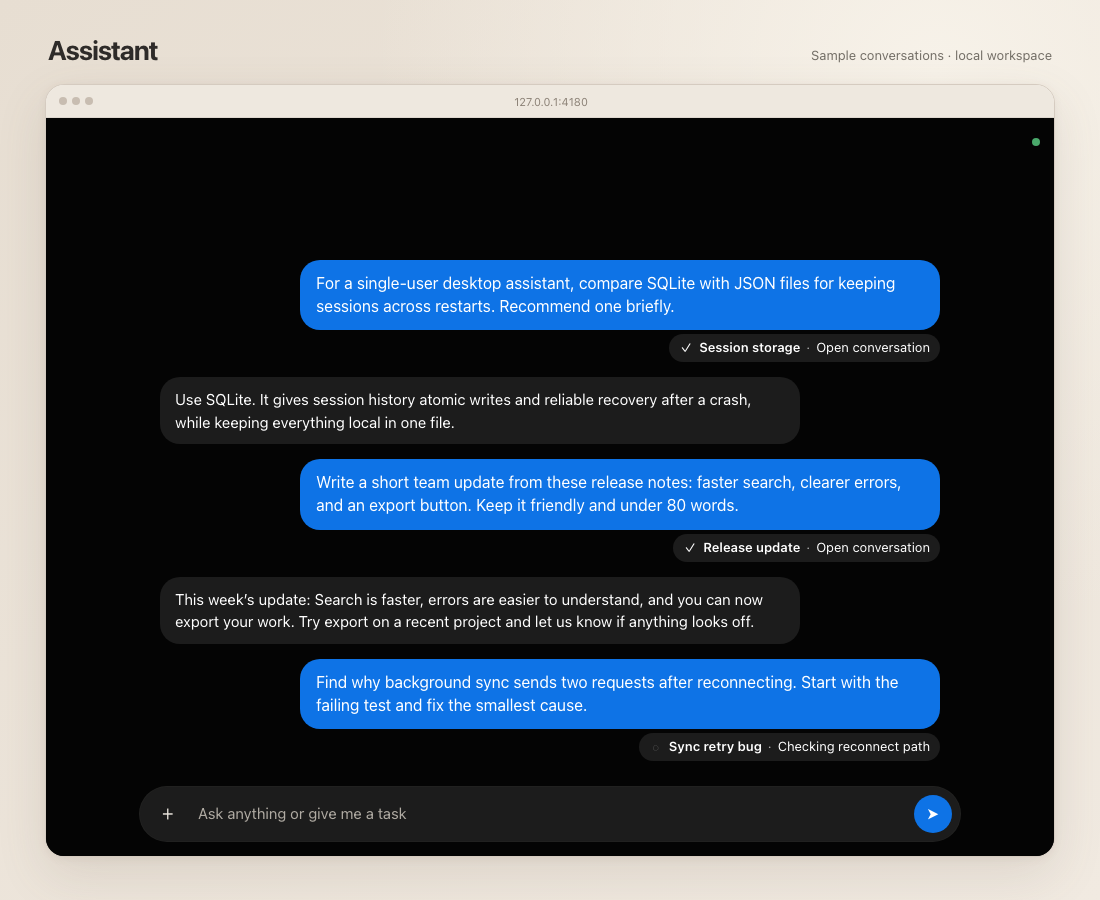
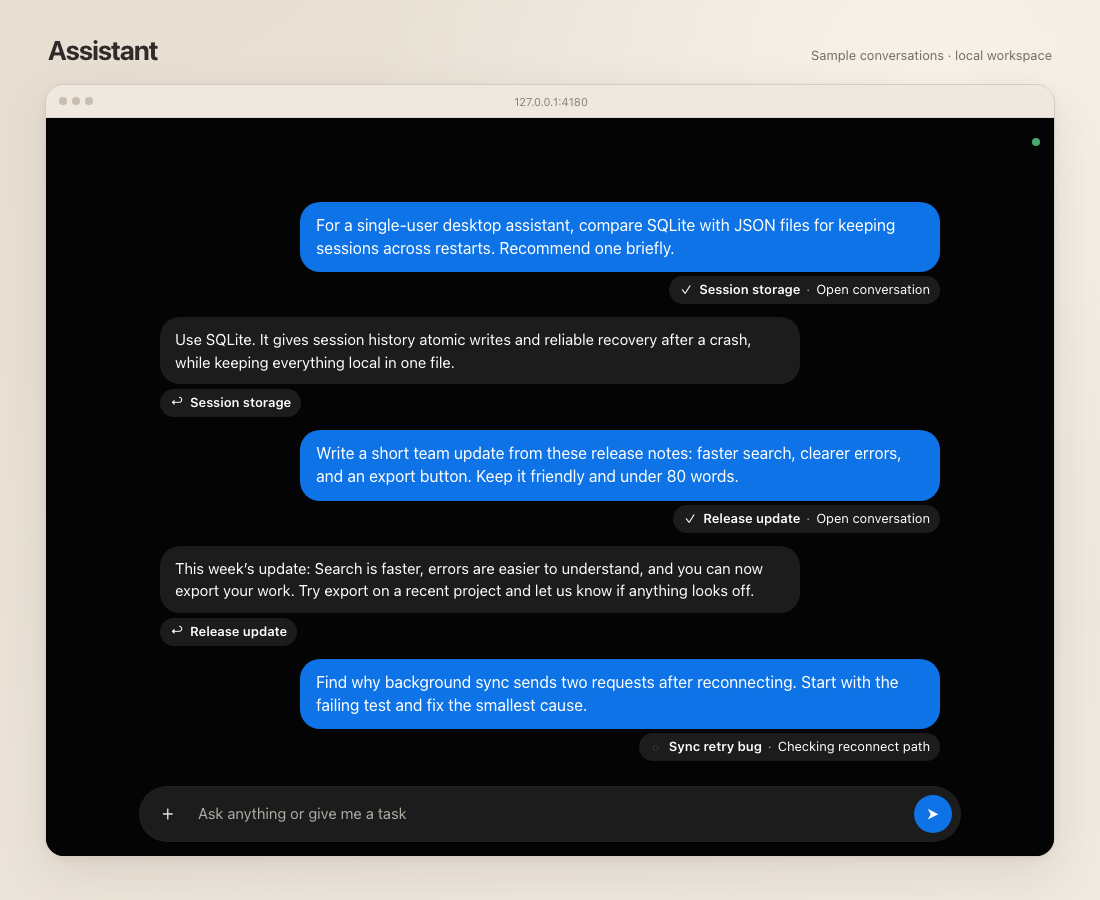
Label Assistant Home replies by conversation

Changed region(s): [[0.1545, 0.2178, 0.8655, 0.7156]]

diff --git a/tools/assistant/web/app.js b/tools/assistant/web/app.js
@@ -66,7 +66,8 @@ function homeRequest(message, entry) {
   return `<section class="home-exchange"><div class="message-row user-row home-requests"><div class="replyable replyable-user">${messageAction(message, entry?.sessionId)}${request}</div>${pill}</div></section>`;
 }
 function homeReply(update, entry, source) {
-  return `<section class="home-exchange" data-update="${escapeHTML(update.id)}"><div class="message-row assistant-row home-updates"><div class="replyable replyable-assistant">${replyButton(update.id, entry.sessionId)}<button class="message-bubble assistant-bubble home-update ${update.quoteSource ? "with-context" : ""}" data-action="open" data-session="${escapeHTML(entry.sessionId || "")}" ${entry.sessionId ? "" : "disabled"}>${update.quoteSource ? quote({ role: "You", text: source.text }, "message-context") : ""}<span class="message-text markdown-content">${renderMarkdown(update.text)}</span></button></div></div></section>`;
+  const sourcePill = entry.sessionId ? `<button type="button" class="activity-pill reply-source-pill" data-action="open" data-session="${escapeHTML(entry.sessionId)}" aria-label="Open ${escapeHTML(entry.title)} conversation" title="Open conversation"><span class="pill-symbol" aria-hidden="true">${icon("reply", 14)}</span><strong class="pill-title">${escapeHTML(entry.title)}</strong></button>` : "";
+  return `<section class="home-exchange" data-update="${escapeHTML(update.id)}"><div class="message-row assistant-row home-updates"><div class="replyable replyable-assistant">${replyButton(update.id, entry.sessionId)}<button class="message-bubble assistant-bubble home-update ${update.quoteSource ? "with-context" : ""}" data-action="open" data-session="${escapeHTML(entry.sessionId || "")}" ${entry.sessionId ? "" : "disabled"}>${update.quoteSource ? quote({ role: "You", text: source.text }, "message-context") : ""}<span class="message-text markdown-content">${renderMarkdown(update.text)}</span></button></div>${sourcePill}</div></section>`;
 }
 function home() {
   if (!state.data.messages.length) return `<main class="home-scroll scroll-area"><div class="home-content"><div class="empty-home-chat"><span class="brand-mark">${icon("sparkle", 17)}</span><strong>How can I help?</strong><p>Ask me anything or give me a task.</p></div></div></main>`;

diff --git a/tools/assistant/web/app.css b/tools/assistant/web/app.css
@@ -191,6 +191,7 @@ button:disabled { opacity: .45; cursor: not-allowed !important; }
 .activity-pill { align-self: flex-end; display: flex; align-items: center; gap: 6px; width: max-content; max-width: min(480px, calc(100% - 38px)); min-height: 28px; margin-top: 5px; padding: 4px 10px; border: 0; border-radius: 14px; background: var(--assistant); color: white; text-align: left; font-size: 12px; line-height: 1.35; cursor: pointer; }
 .activity-pill:hover:not(:disabled) { filter: brightness(1.14); }
 .activity-pill:disabled { opacity: 1; cursor: default; }
+.reply-source-pill { align-self: flex-start; margin-top: 0; }
 .pill-symbol { flex: 0 0 auto; display: flex; align-items: center; justify-content: center; width: 14px; height: 14px; }
 .pill-symbol .spinner { width: 11px; height: 11px; }
 .pill-title, .pill-detail { min-width: 0; overflow: hidden; white-space: nowrap; text-overflow: ellipsis; }

diff --git a/tools/assistant/README.md b/tools/assistant/README.md
@@ -1,6 +1,6 @@
 # Assistant
 
-![Assistant Home with two completed conversations and one in progress, shown with sample data](docs/assistant.png)
+![Assistant Home with labeled replies and one conversation in progress, shown with sample data](docs/assistant.png)
 
 Assistant is a local assistant built on Pi. Home routes new requests and follow-ups to persistent session agents, which can delegate read-only research or review. Its Node service keeps conversations and queued work running when the browser closes. Open `http://127.0.0.1:4180`.
 
